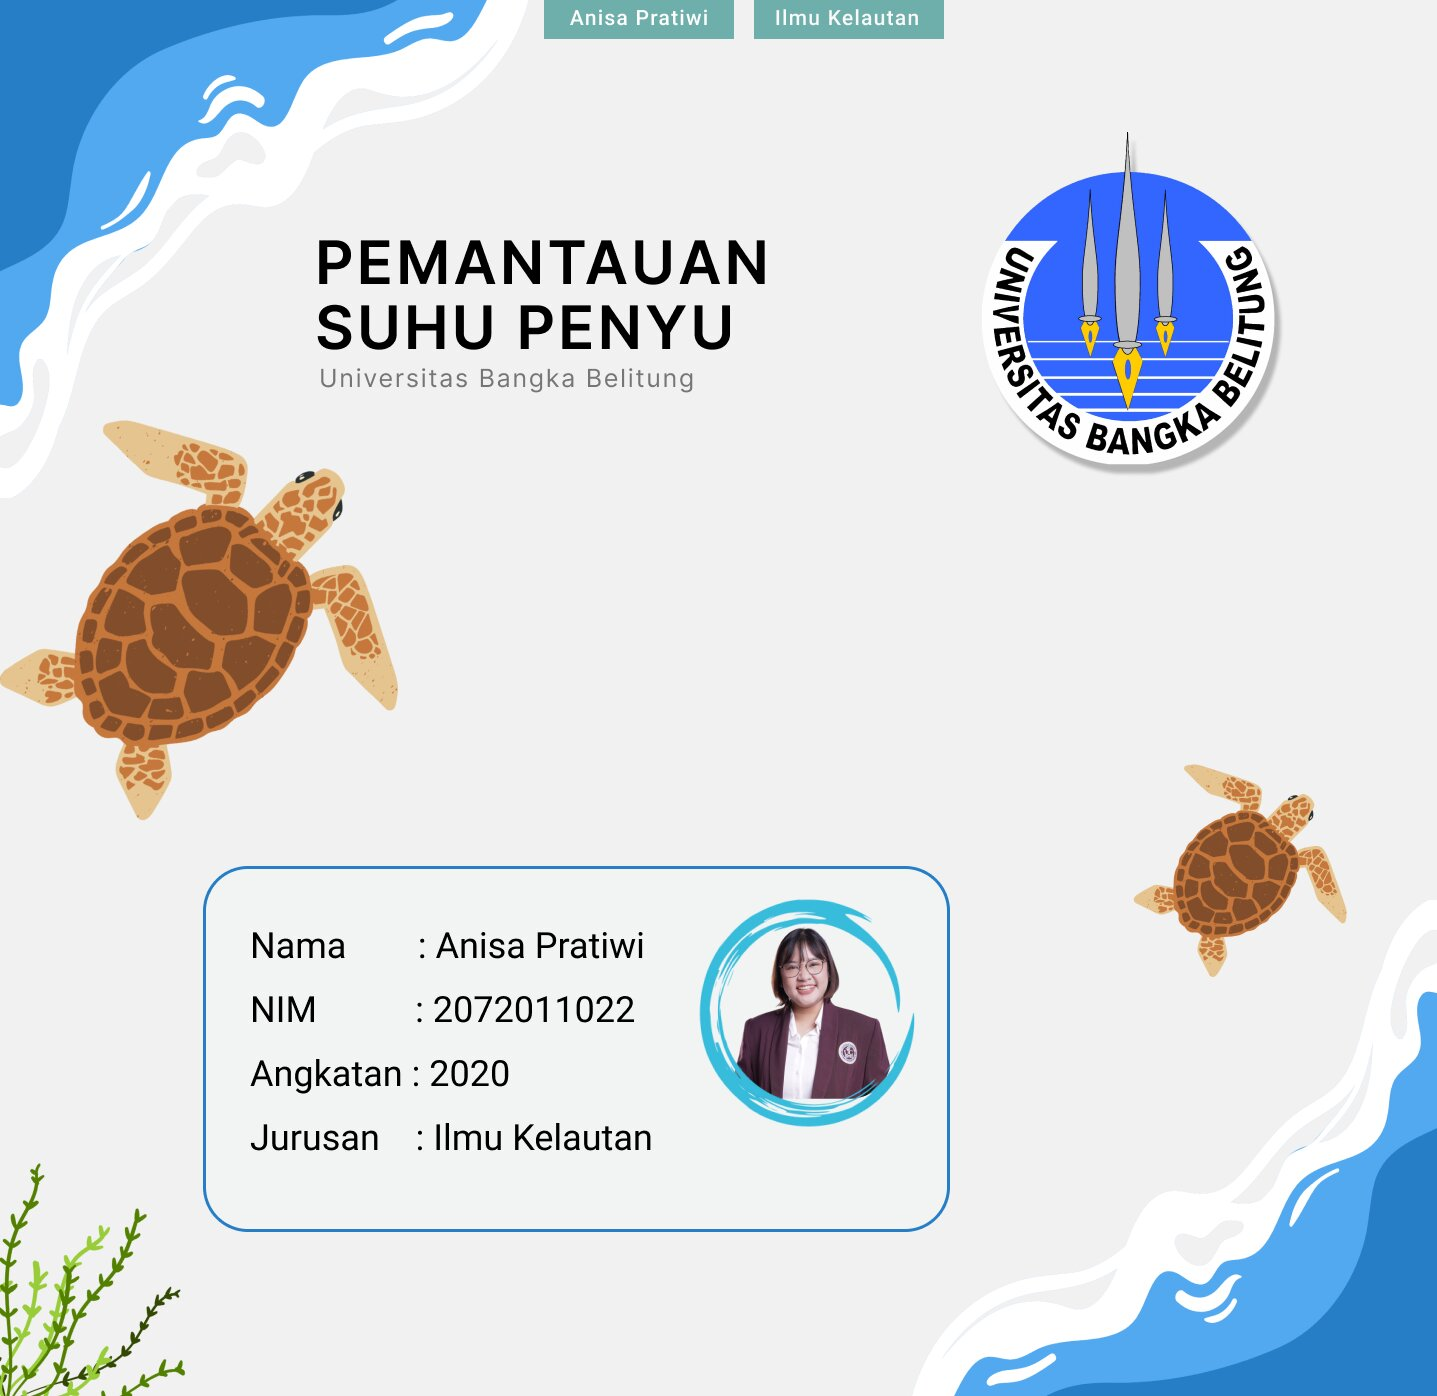
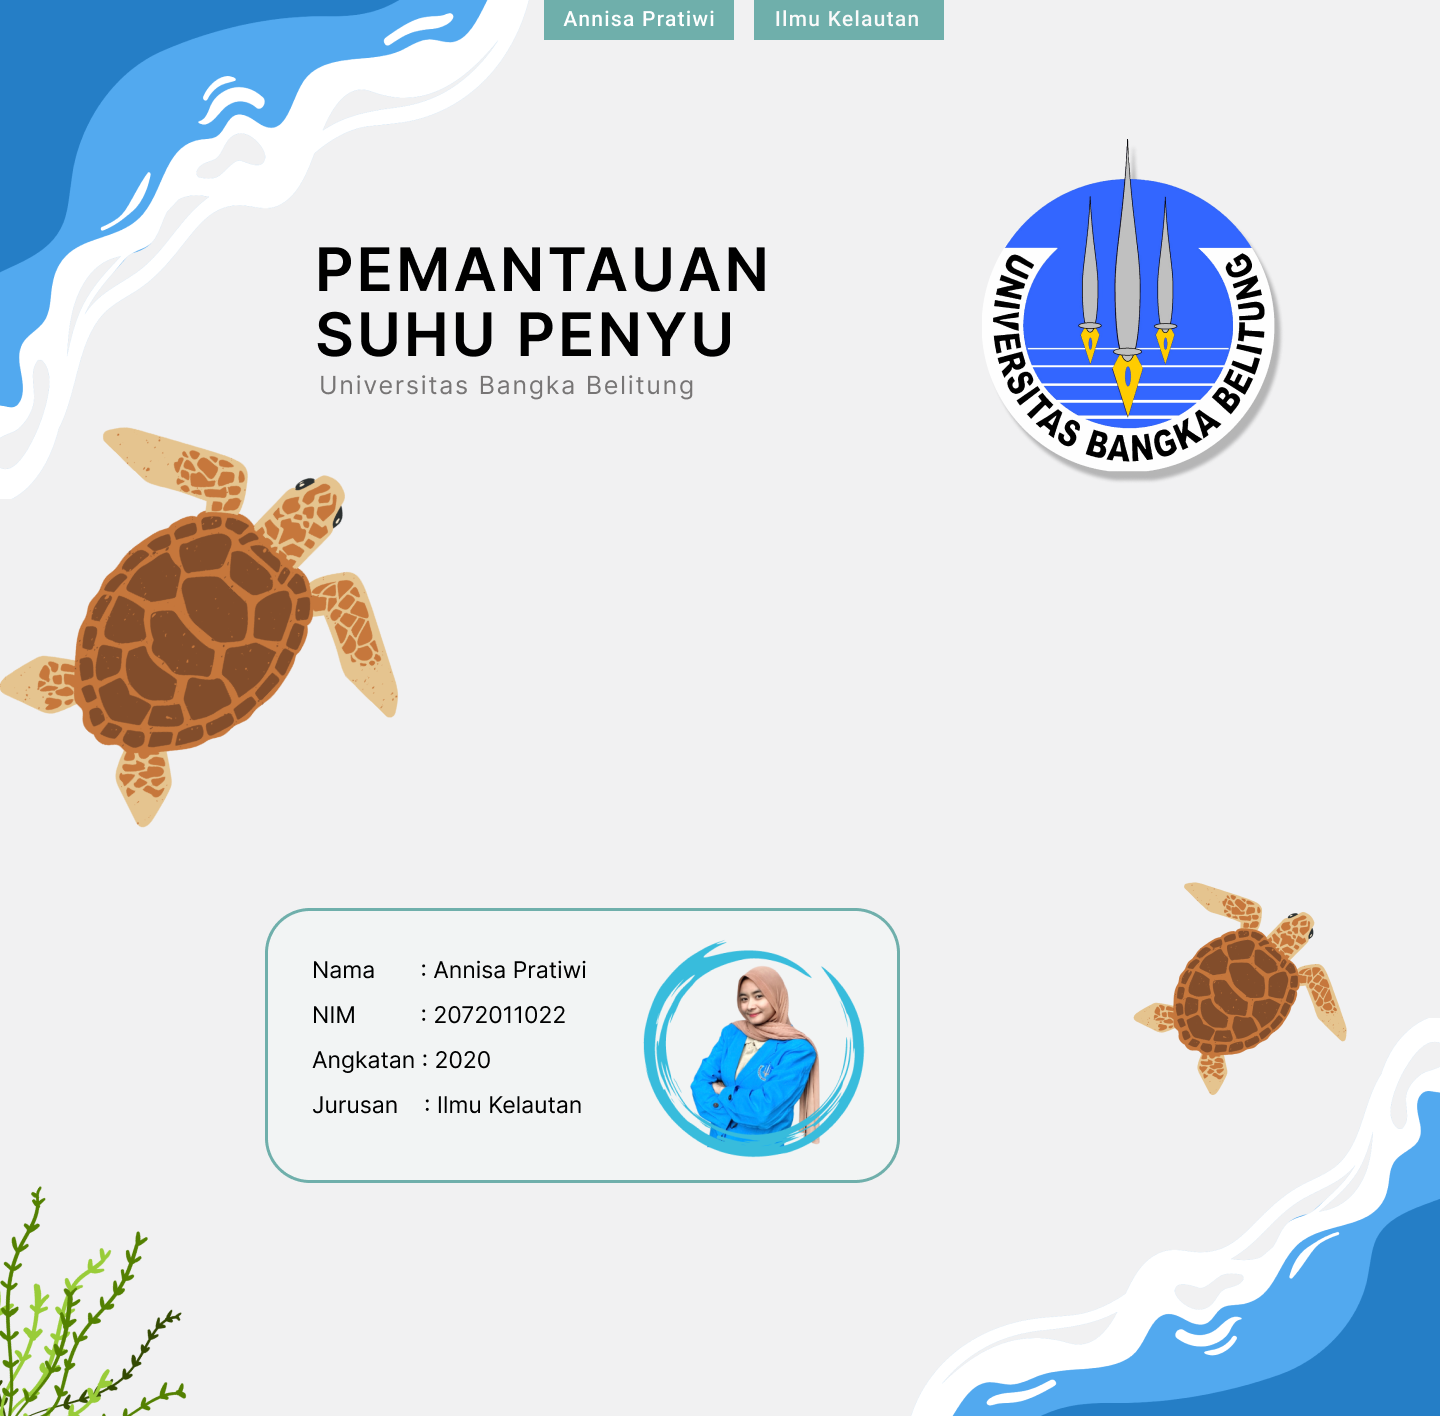
Change homepage and profile picture

diff --git a/client/Layouts/MainLayout/LayoutProfile.tsx b/client/Layouts/MainLayout/LayoutProfile.tsx
@@ -25,9 +25,7 @@ const LayoutProfile: React.FC<IProps> = (props: IProps) => {
       <Space size="small">
         <Avatar
           icon={<UserOutlined />}
-          src={
-            'http://t3.gstatic.com/licensed-image?q=tbn:ANd9GcTHxF6ZFN_jdNkcz_AllyoiVGbY0-UY48Tc42sE4hg22hB5AtTRbeSIdDgue-WwL7sLimP1OvgHp39lVIA'
-          }
+          src={'https://suhpen.up.railway.app/images/profile.jpg'}
         />
 
         <Space.Compact direction="vertical" size="small">

diff --git a/client/Modules/Iam/Profile/Profile.tsx b/client/Modules/Iam/Profile/Profile.tsx
@@ -13,9 +13,7 @@ const Profile: React.FC = () => {
           size={250}
           icon={<UserOutlined />}
           style={{ margin: '32px' }}
-          src={
-            'https://pelajarinfo.id/wp-content/uploads/2021/03/Universitas-Bangka-Belitung-Logo.png'
-          }
+          src={'https://suhpen.up.railway.app/images/profile.jpg'}
         />
         <DescriptionContainer>
           <Descriptions.Item label="Name">ANNISA PRATIWI</Descriptions.Item>
